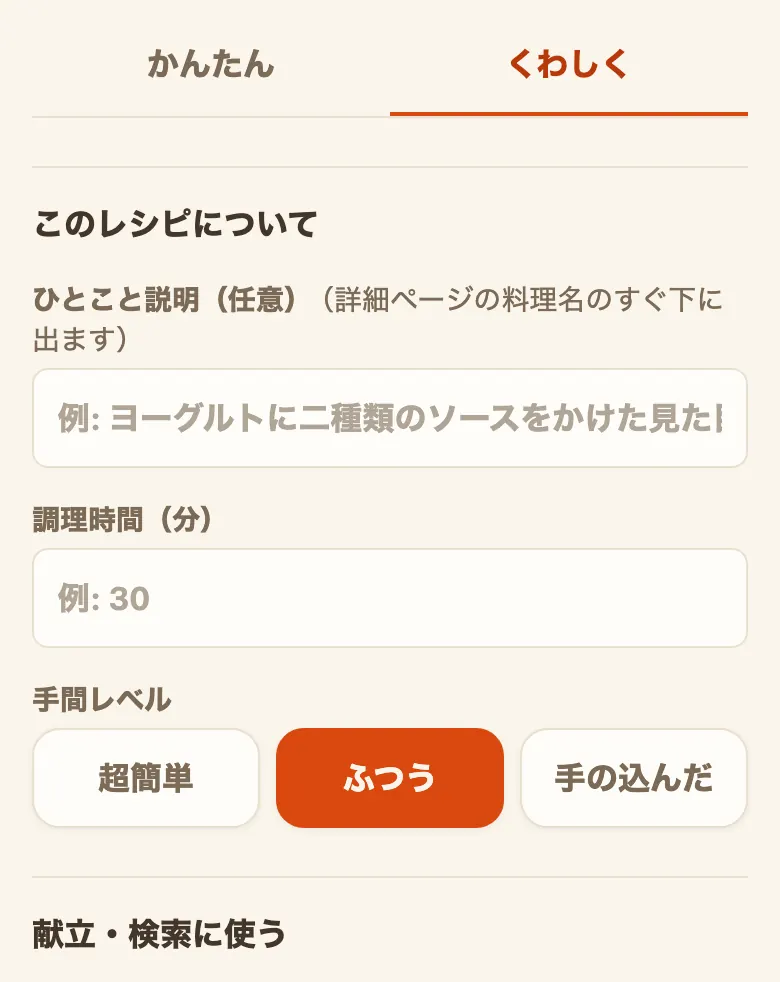
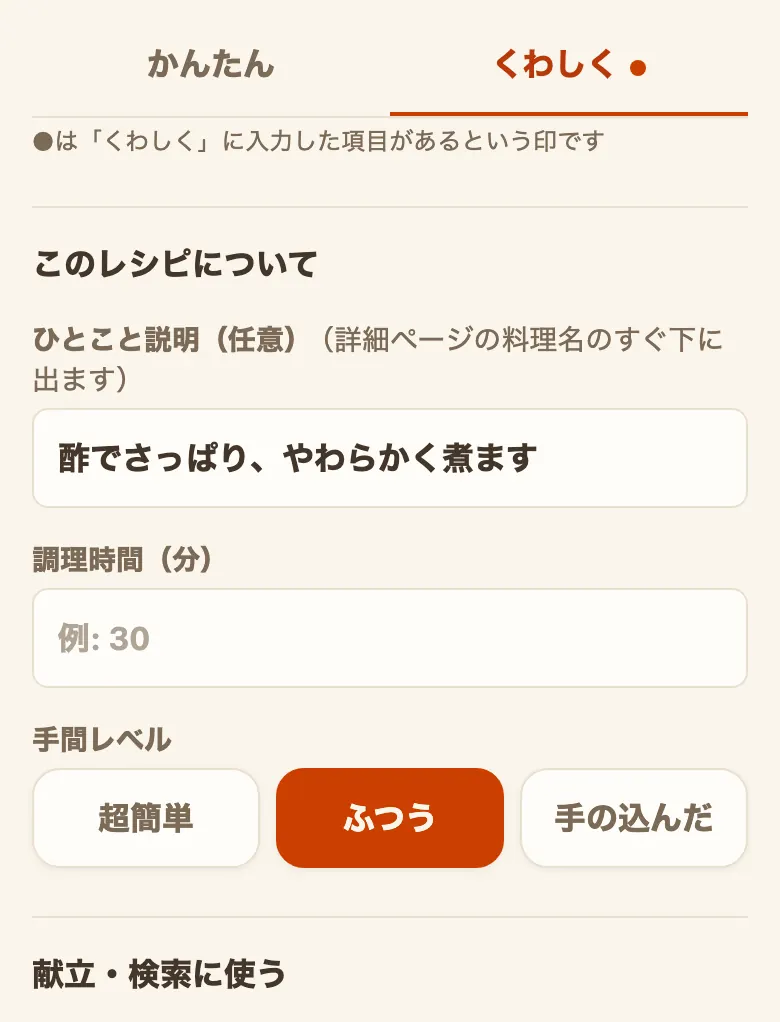
便EP 群C: 使い方ページ§2「くわしく」の図を撮り直し(オーナー実機)
15. 「ソースをかけた見た！」は誤字ではなく、空の「ひとこと説明」欄に出る例文が
    欄の幅で途中までしか写っていなかったもの(実物の例文は
    「例: ヨーグルトに二種類のソースをかけた見た目も楽しいデザートです」)。
    欄に収まる長さの文を実際に入れた状態で撮り直した。あわせてタブの●も写るので
    本文の「入力した項目があるとタブに●が付きます」が図で確かめられる

diff --git a/public/about/manual.html b/public/about/manual.html
@@ -642,7 +642,9 @@
     <p>ひとこと説明・調理時間・手間レベル・季節・向いている時間帯・タグ・検索キーワード・ワンポイント・メモ・参照元URLが入ります。<strong>「くわしく」の項目はすべて任意です。</strong>入力した項目があるとタブに●が付きます。</p>
 
     <figure class="shot" style="--w:390px">
-      <img src="/about/img/manual/register-detail.webp" width="780" height="982" loading="lazy" decoding="async" alt="「くわしく」タブを開いた画面。「このレシピについて」の見出しの下に、ひとこと説明・調理時間・手間レベルの欄が並び、続いて「献立・検索に使う」の見出しがある">
+      <!-- 2026-08-09 便EP: ひとこと説明の欄を空のまま撮ると、例文が欄の幅で途中までしか
+           写らず誤字のように読めるため、実際に文を入れた状態で撮り直した -->
+      <img src="/about/img/manual/register-detail.webp" width="780" height="1022" loading="lazy" decoding="async" alt="「くわしく」タブを開いた画面。タブに●が付き、「このレシピについて」の見出しの下に、ひとこと説明・調理時間・手間レベルの欄が並び、続いて「献立・検索に使う」の見出しがある">
       <figcaption>「くわしく」タブ。項目は「このレシピについて」「献立・検索に使う」「書き残す」に分かれています</figcaption>
     </figure>
 
